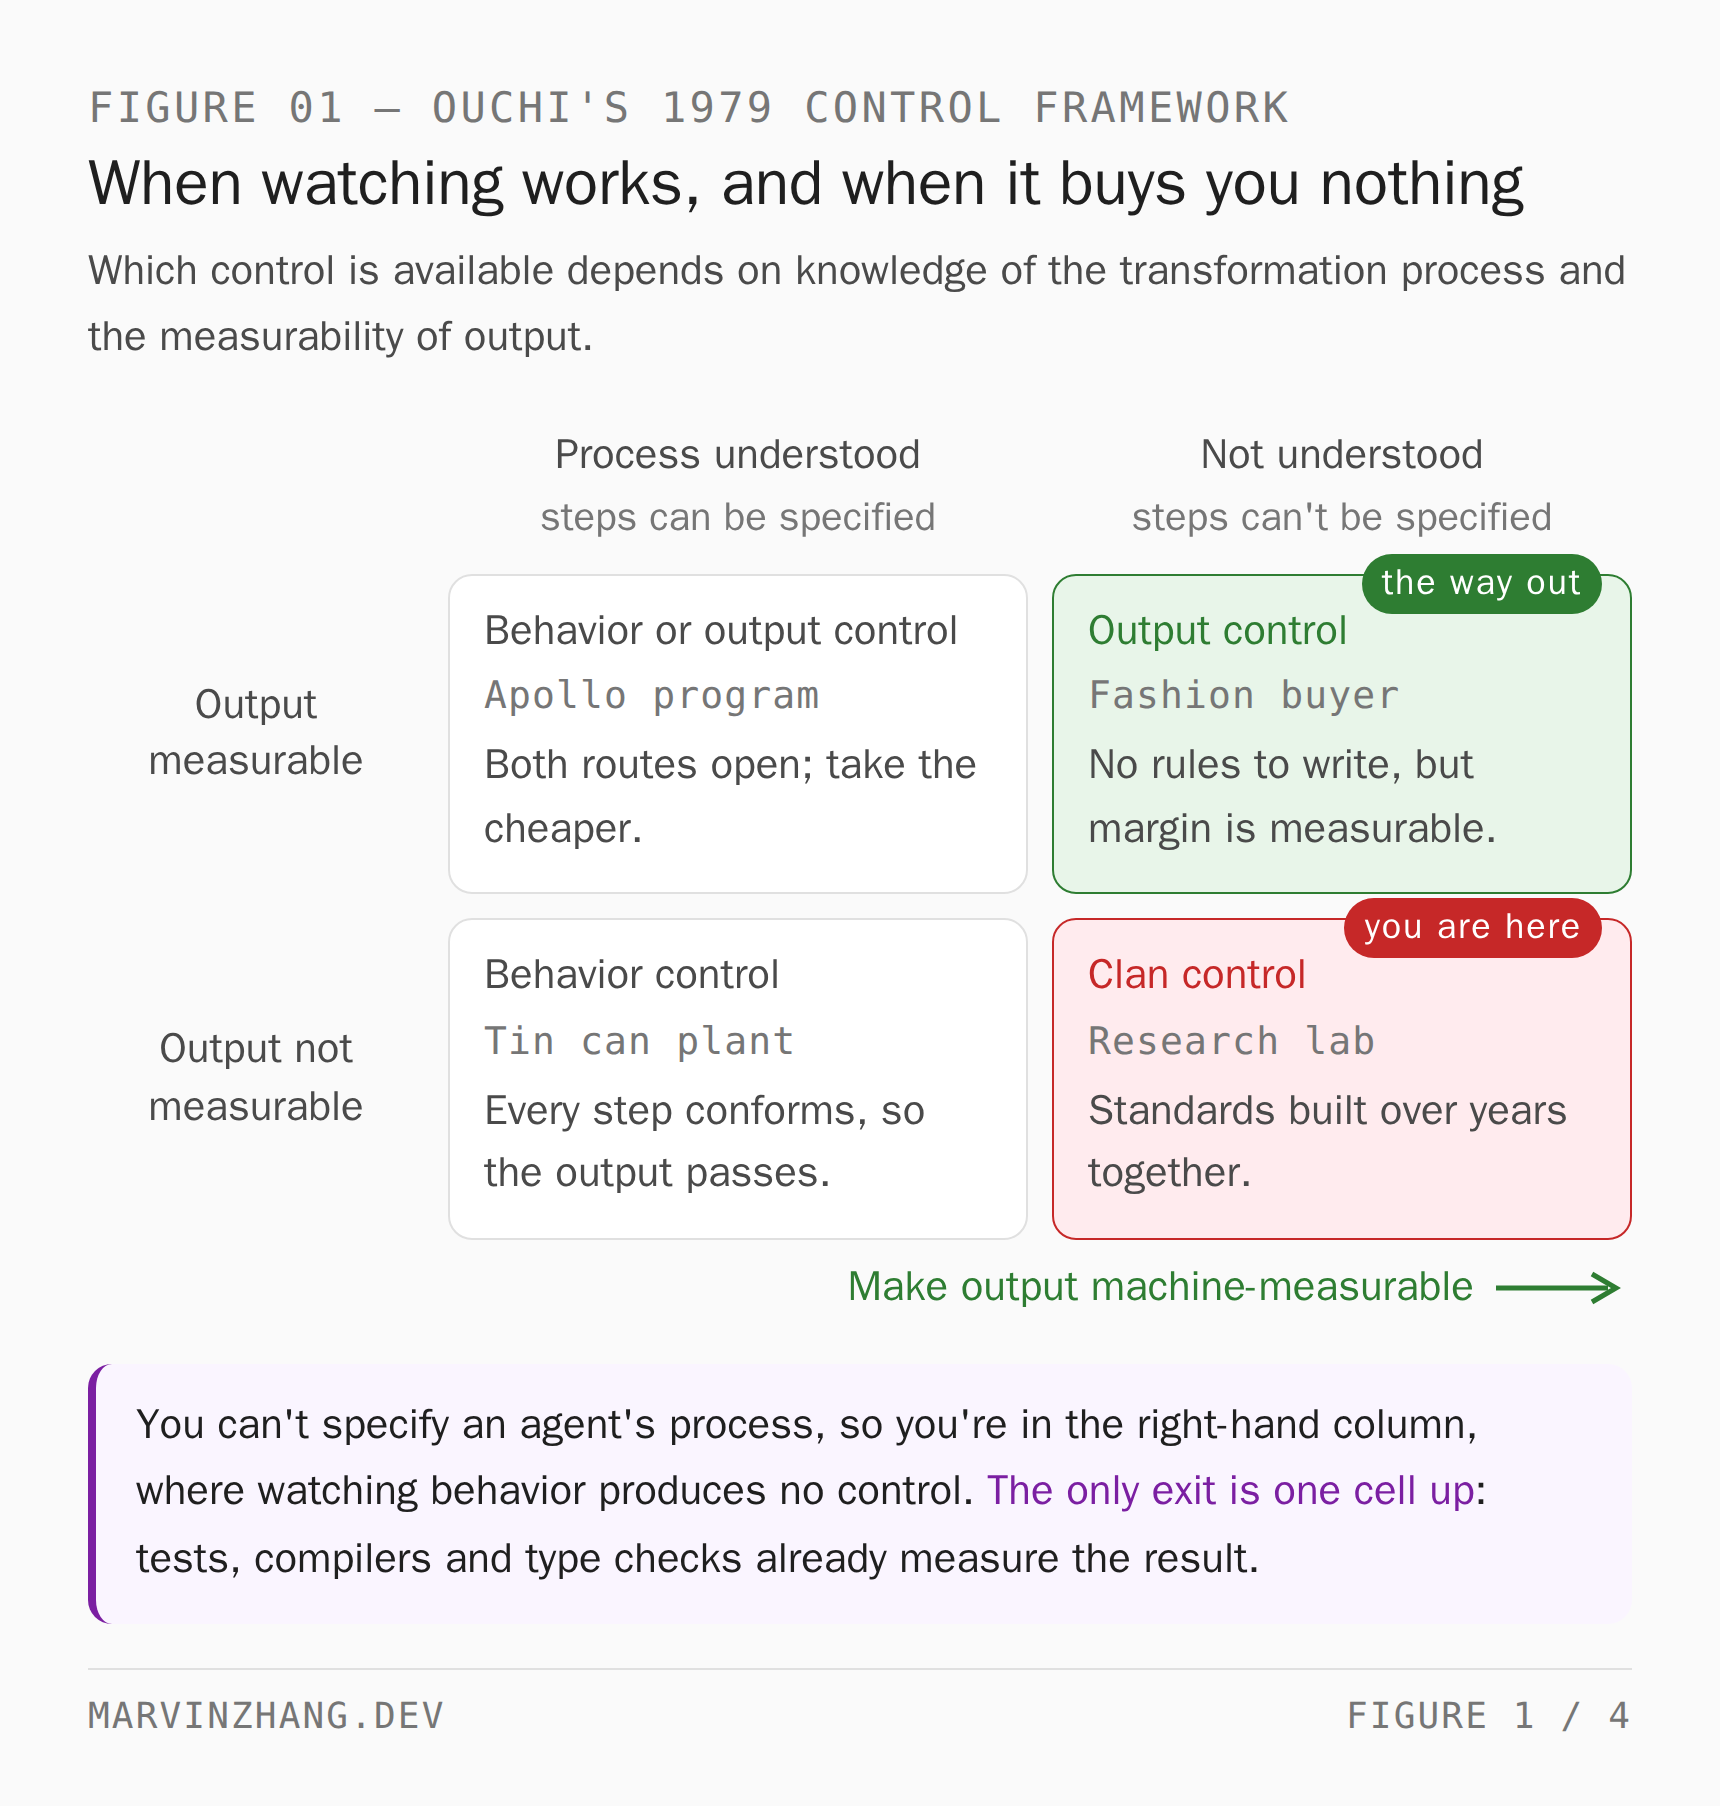
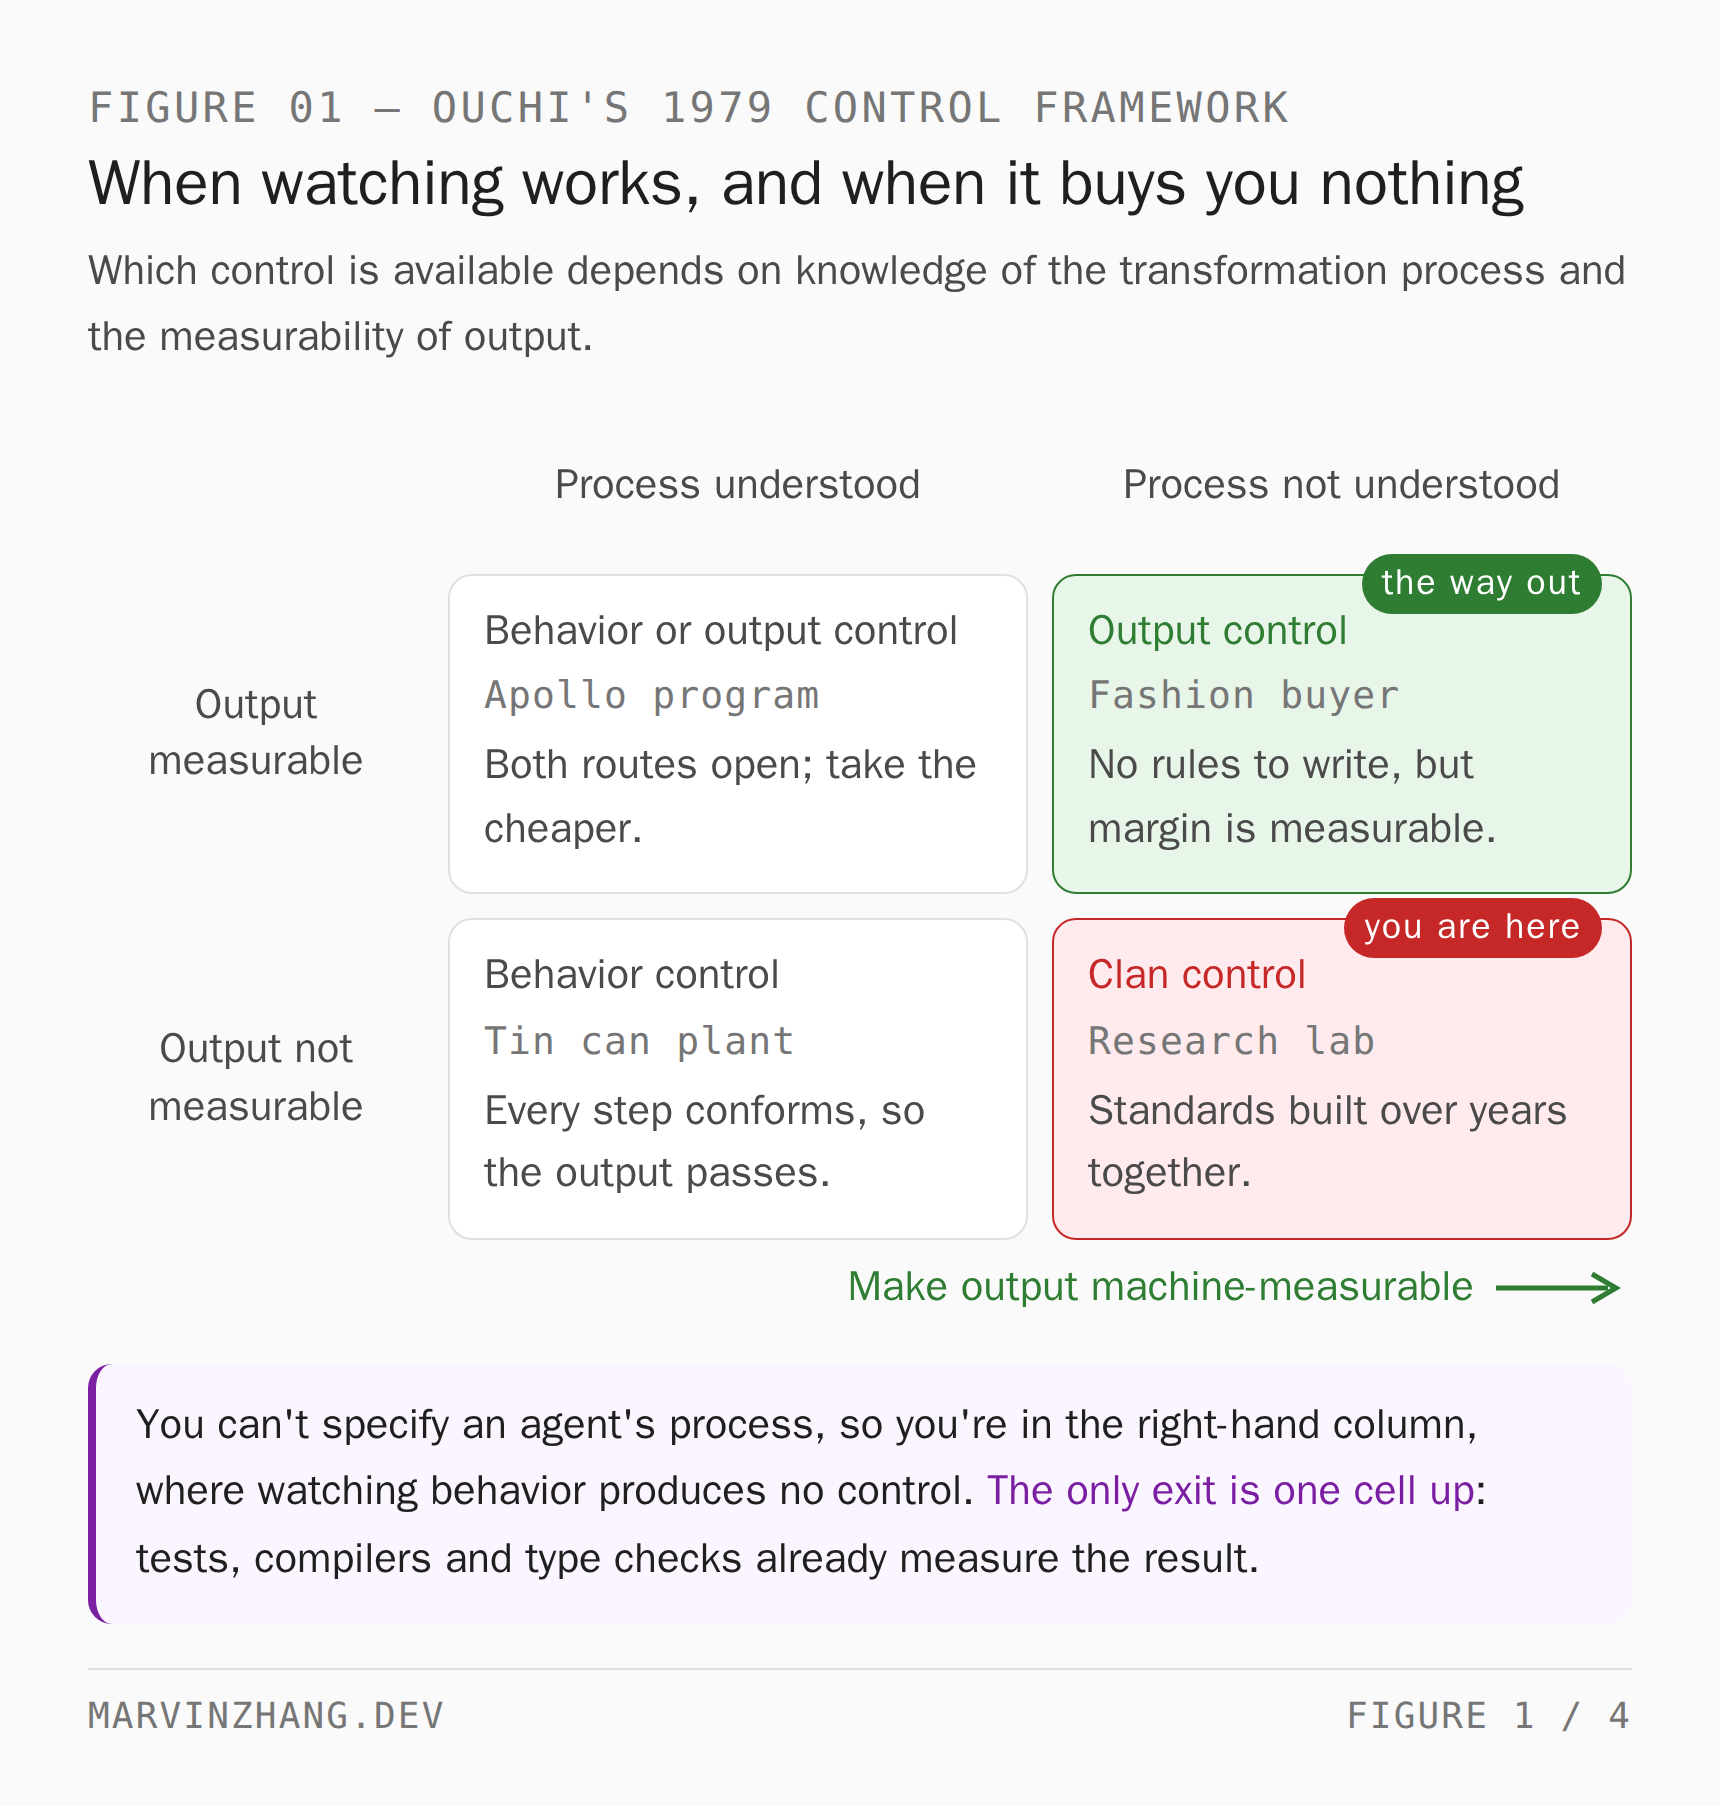
Tidy figure 1: drop column sublabels, stop singling out one term
Three points from the author plus three from review, all on the same figure.

Column sublabels (转换过程了解完善 / 不完善) come out. The axis labels
already say it, and the sublabels only restated them at a smaller size.
That also settles the review note about the two sublabels not being
parallel — there is nothing left to be parallel about.

The lone "clan control" tag on 研究所 comes out too. All four examples
in this grid — 阿波罗计划, 时装买手, 罐头厂, 研究所 — are Ouchi's own,
so annotating one of them read as a translation gloss on that cell rather
than as terminology. The English now sits in the subtitle, naming all
three control modes once as a set, which is what it always described.

From review, two real inconsistencies inside the figure:

- the subtitle had lost its full stop when it was shortened, and it was
  the only ZH figure subtitle in the set without one.
- the rows and the arrow said 可测 while one cell note said 可量. One
  concept, one word: now 可测 throughout.

English figure: "Not understood" → "Process not understood", so the two
column headers are parallel. Its cells already carry the English terms,
so it needs no subtitle annotation.

Claude-Session: https://claude.ai/code/session_013SXeSeVJxSr2JRLCpiPBGP

Changed region(s): [[0.6471, 0.2478, 0.8936, 0.3097], [0.3081, 0.2478, 0.5547, 0.3097]]

diff --git a/drafts/2026-08-10-stop-babysitting-your-agent/figures/figure-1-control.zh.html b/drafts/2026-08-10-stop-babysitting-your-agent/figures/figure-1-control.zh.html
@@ -72,13 +72,13 @@
 <div class="header">
   <div class="figno">图 01 — 大内 1979 控制框架</div>
   <h1>什么时候盯得住，什么时候盯了也白盯</h1>
-  <div class="subtitle">控制方式取决于对工序的了解与产出的可测量性</div>
+  <div class="subtitle">控制方式取决于对工序的了解与产出的可测量性，三种模式对应 behavior、output、clan control。</div>
 </div>
 
 <div class="grid">
   <div class="corner"></div>
-  <div class="colhead">工序清楚<span class="sub">对转换过程了解完善</span></div>
-  <div class="colhead">工序不清楚<span class="sub">了解不完善</span></div>
+  <div class="colhead">工序清楚</div>
+  <div class="colhead">工序不清楚</div>
 
   <div class="rowhead">产出可测</div>
   <div class="cell dim">
@@ -90,7 +90,7 @@
     <div class="pin out">出路在这</div>
     <div class="mode">结果控制</div>
     <div class="eg">时装买手</div>
-    <div class="note">规程写不出，但产出可量</div>
+    <div class="note">规程写不出，但产出可测</div>
   </div>
 
   <div class="rowhead">产出难测</div>
@@ -102,7 +102,7 @@
   <div class="cell here">
     <div class="pin now">你现在在这</div>
     <div class="mode">群体控制</div>
-    <div class="eg">研究所 · clan control</div>
+    <div class="eg">研究所</div>
     <div class="note">靠长期共处的共同标准</div>
   </div>
 </div>

diff --git a/drafts/2026-08-10-stop-babysitting-your-agent/figures/figure-1-control.en.html b/drafts/2026-08-10-stop-babysitting-your-agent/figures/figure-1-control.en.html
@@ -76,8 +76,8 @@
 
 <div class="grid">
   <div class="corner"></div>
-  <div class="colhead">Process understood<span class="sub">steps can be specified</span></div>
-  <div class="colhead">Not understood<span class="sub">steps can't be specified</span></div>
+  <div class="colhead">Process understood</div>
+  <div class="colhead">Process not understood</div>
 
   <div class="rowhead">Output measurable</div>
   <div class="cell dim">
